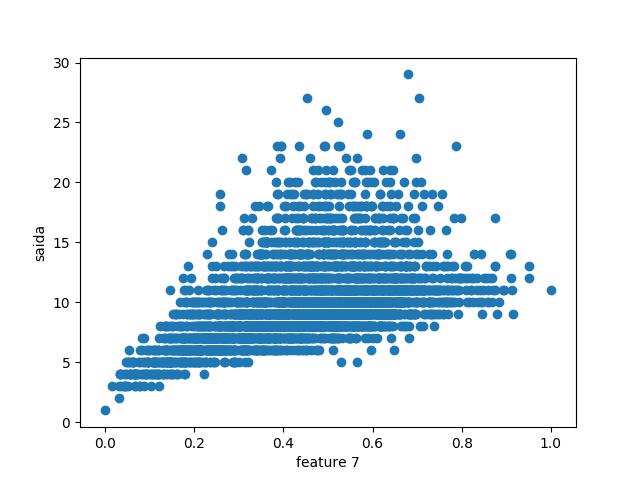
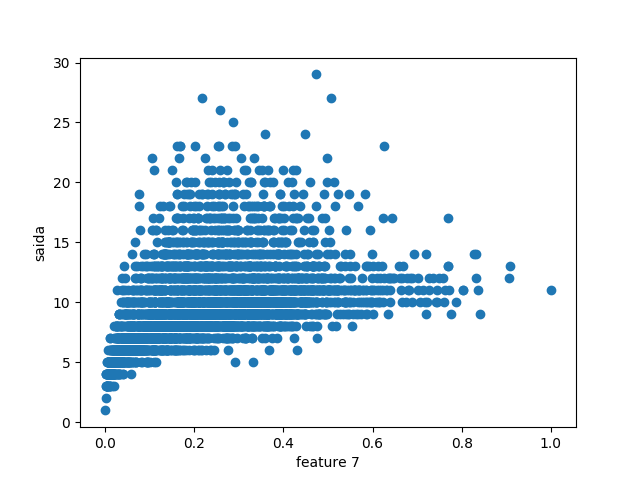
Updated investigate_data to remove obsolete analysis and updated result images

diff --git a/investigate_data.py b/investigate_data.py
@@ -1,46 +1,6 @@
 import matplotlib.pyplot as plt
 from util import *
 
-def custom_transform(X):
-    (num_elems, dimensions) = np.shape(X)
-    new_X = []
-    for n in xrange(num_elems):
-        x = X[n]
-        nX = np.array([x[0], x[1], x[2], x[3], x[4], x[5], pow(x[6], 0.5), pow(x[7], 0.5), pow(x[8], 0.5), pow(x[9], 0.5)])
-        new_X.append(nX)
-    new_X_np = np.asarray(new_X)
-    return new_X_np
-
-def remove_outliers(X):
-    (num_elems, dimensions) = np.shape(X)
-    new_X = []
-    for n in xrange(num_elems):
-        x = X[n]
-        for d in xrange(dimensions):
-            if x[d] > 2:
-                x[d] = 1
-        new_X.append(x)
-    new_X_np = np.asarray(new_X)
-    return new_X_np
-
-def separate_intervals(Y):
-    dimensions = np.shape(Y)[0]
-    new_Y = []
-    for d in xrange(dimensions):
-        nY = int(Y[d])/5
-        new_Y.append(nY)
-    return np.array(new_Y).ravel()
-
-def test_correlations(X, Y):
-    (num_elems, dimensions) = np.shape(X)
-    correlations = []
-    for i in xrange(dimensions):
-        Xd = X[np.ix_(range(num_elems), [i])].ravel()
-        new_correlation = np.correlate(Xd, Y)
-        correlations.append(new_correlation)
-        print 'correlation', i, new_correlation
-    return correlations
-
 print 'Reading files'
 np_data = read_file()
 print 'Separate X and Y'
@@ -63,28 +23,17 @@ plt.hist(Y)
 plt.savefig('result_images/hist_ages.png')
 
 n_X = create_dummy_vars(X, 0)
-X_t = custom_transform(n_X)
-[mins, maxes] = get_max_and_mins(X_t)
-
-n_X_scaled = scale_vars(X_t, mins, maxes)
-n_X_std = remove_outliers(n_X_scaled)
-n_Y = separate_intervals(Y)
-
-correlations = test_correlations(n_X_scaled, Y)
+[mins, maxes] = get_max_and_mins(n_X)
+n_X_scaled = scale_vars(n_X, mins, maxes)
+print 'Saving scatter plots'
 
 (num_elems, dimensions) = np.shape(n_X)
-print 'Saving scatter plots'
 
 for d in xrange(dimensions):
     print 'feature', d + 1, 'of', dimensions
-    feature = isolate_feature(n_X_std, d)
+    feature = isolate_feature(n_X_scaled, d)
     plt.gcf().clear()
     plt.xlabel('feature ' + str(d))
     plt.ylabel('saida')
-    plt.scatter(feature, n_Y)
-    plt.savefig('result_images/scatter_' + str(d) + '1_.png')
-
-#plt.gcf().clear()
-#plt.scatter((isolate_feature(n_X_scaled, 3))/(0.0001 + isolate_feature(n_X_scaled, 9)), Y, color='blue')
-#plt.scatter(isolate_feature(n_X_scaled, 3), Y, color='red')
-#plt.show()
+    plt.scatter(feature, Y)
+    plt.savefig('result_images/scatter_' + str(d) + '.png')
